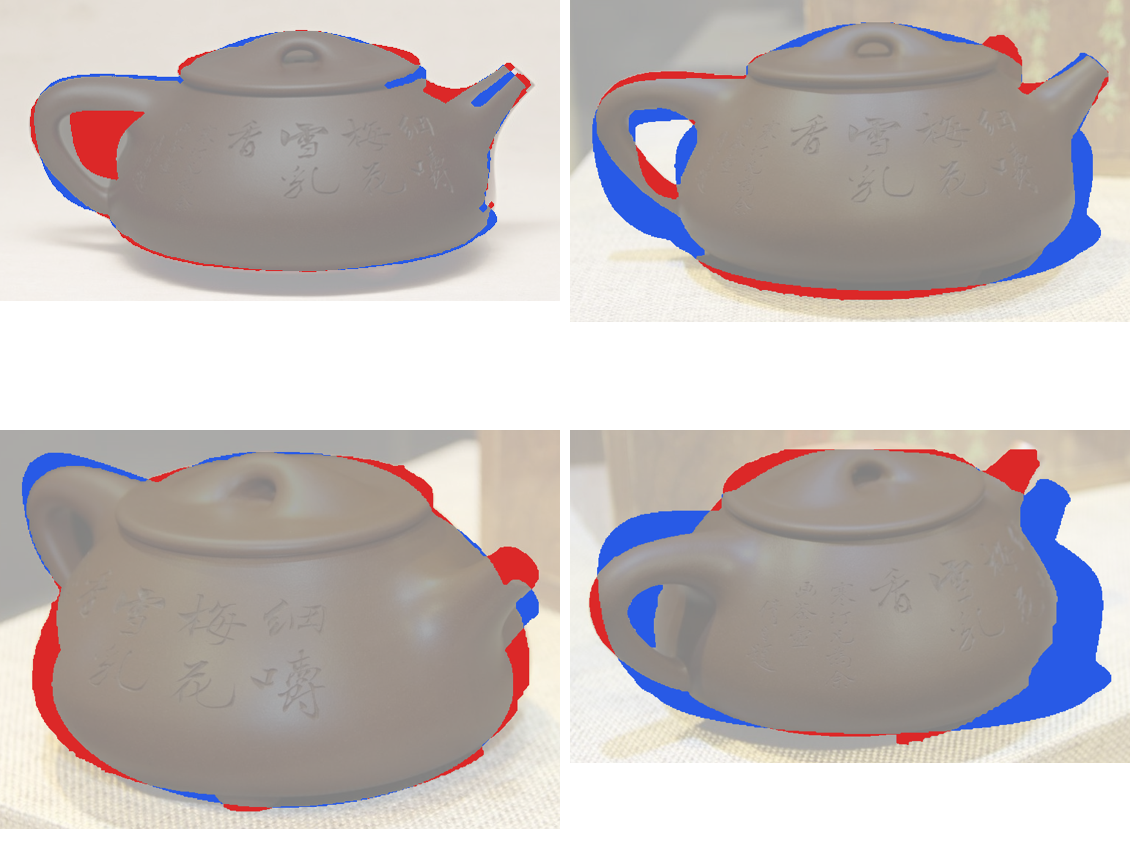
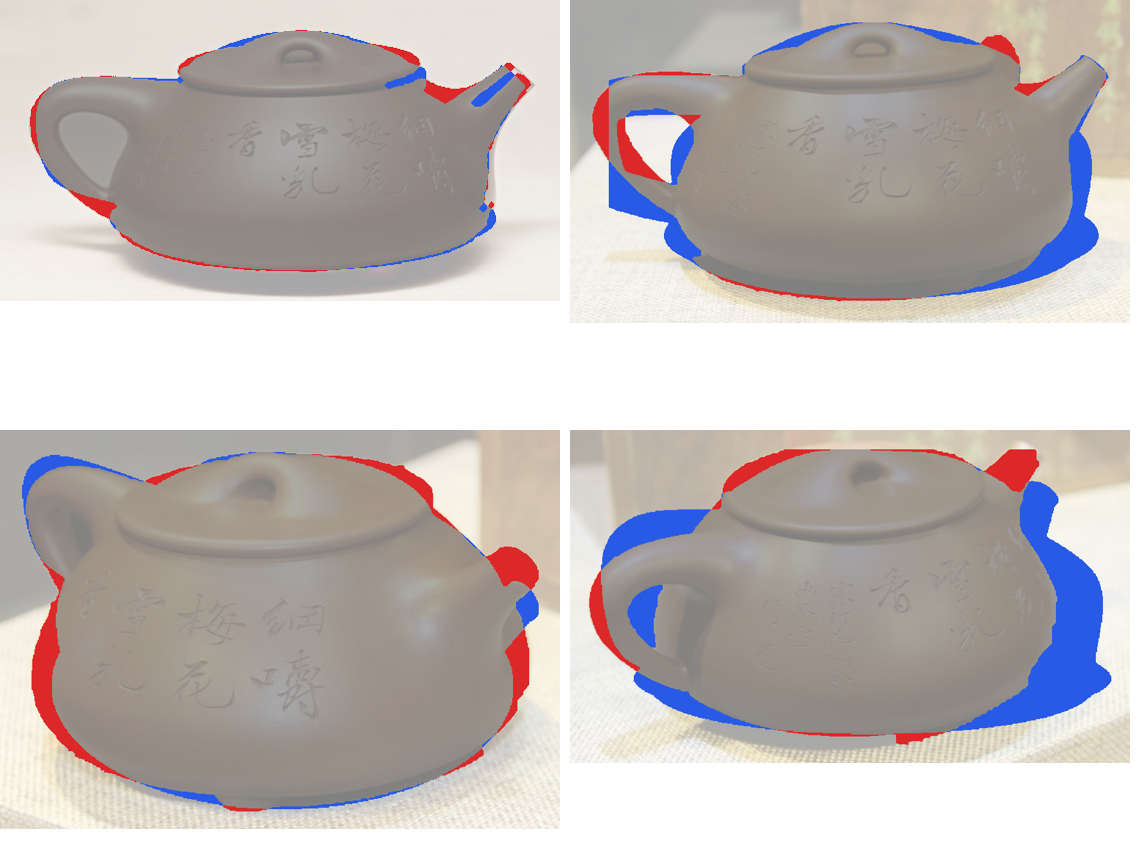
fit: solve camera distance (perspective) per view; 大石瓢 4-view IoU 0.882→0.896
Claude-Session: https://claude.ai/code/session_01Au3NkrP4Zh9Vb2uEzJxxmj

diff --git a/scripts/fit/optimize.py b/scripts/fit/optimize.py
@@ -137,7 +137,7 @@ def _is_int_param(key):
     s_, k_ = key.split('.'); b_ = BOUNDS.get(f"{s_}.{spec0[s_]['type']}.{k_}")
     return bool(b_) and len(b_) > 2 and b_[2] is not None and b_[2] >= 1
 KEYS = [k for k in KEYS if k.startswith('view') or not _is_int_param(k)]
-CAM_BOUNDS = {'elev': [-5, 40], 'az': [-60, 60], 'dist': [3, 20], 'fov': [8, 40], 'ty': [0, 1.5]}
+CAM_BOUNDS = {'elev': [-5, 45], 'az': [-70, 70], 'dist': [3, 30], 'fov': [8, 40], 'ty': [0, 1.5]}
 
 class State:
     def __init__(self, spec, cams): self.spec, self.cams = spec, cams
@@ -198,6 +198,19 @@ if a.cam_grid:
         s_best, n_best, st_best = scored[0]
         best.cams[vi] = dict(st_best.cams[vi])
         print(f'view {vi} camera grid: best {n_best} IoU {s_best:.4f}', flush=True)
+        if 'dist' in tune:  # perspective sweep at the found elev/az
+            cands = []
+            for d_ in (3.5, 5, 6.5, 8, 10, 13, 17, 22, 28):
+                st = best.copy(); st.cams[vi]['dist'] = float(d_); cands.append((f'd{vi}_{d_}', st))
+            jobs = [{'name': n, 'hash': st.hash(vi)} for n, st in cands]
+            jf = OUT / f'dist{vi}.json'; jf.write_text(json.dumps({'out': str(OUT / f'dist{vi}'), 'camera': '', 'jobs': jobs}))
+            r = subprocess.run([a.node, str(HERE / 'render-many.mjs'), str(jf)], cwd=ROOT, capture_output=True, text=True)
+            if r.returncode != 0: print(r.stdout, r.stderr); sys.exit(1)
+            scored = [(iou_view(str(OUT / f'dist{vi}' / f'{n}.png'), v, st.spec, st.cams[vi]), n, st) for n, st in cands]
+            scored.sort(key=lambda t: -t[0])
+            s_best, n_best, st_best = scored[0]
+            best.cams[vi]['dist'] = st_best.cams[vi]['dist']
+            print(f'view {vi} dist sweep: best {n_best} IoU {s_best:.4f}', flush=True)
         json.dump(best.cams, open(OUT / 'best-cameras.json', 'w'), indent=1)
 
 # ---- coordinate descent ------------------------------------------------------
@@ -209,7 +222,7 @@ for rnd in range(1, a.rounds + 1):
     cands = []
     for key in KEYS:
         v = best.get(key); lo, hi = best.bound(key)[:2]
-        d = max(abs(v) * step, 0.5 if key.startswith('view') else 0.005)
+        d = max(abs(v) * step, 0.5 if (key.startswith('view') and not key.endswith('.dist')) else 0.005)
         for sgn, tag in ((+1, 'p'), (-1, 'm')):
             nv = min(hi, max(lo, v + sgn * d))
             if abs(nv - v) < 1e-6: continue

diff --git a/README.md b/README.md
@@ -91,8 +91,9 @@ scripts/
 Fitting results so far: 相明石瓢 (three photos: level / near-level / steep
 3-4) mean IoU 0.909, level view 0.952 — cameras solved to 5.5°/6.5°, 1.5°/0°,
 35°/23°. 大石瓢 (four photos: auction side + three exhibition angles, GrabCut masks
-in fit/refs/masks) mean IoU 0.882 — 0.917 / 0.867 / 0.932 / 0.813; cameras
-10°/−8°, 10°/−24°, 30°/32°, 7.5°/−42°. Light backdrops with engraving need
+in fit/refs/masks) mean IoU 0.896 — 0.951 / 0.885 / 0.932 / 0.816; cameras
+(elev/az/dist) 10.6°/−8°/10, 10°/−20°/5, 30°/32°/8, 7°/−45°/6.6. Solving
+camera distance (perspective) lifted the auction view 0.917 → 0.951. Light backdrops with engraving need
 generous `hole_px`; cluttered backdrops → precomputed masks (`"mask"` field).
 
 URL grammar: `#id=<archive-id>&mat=<material>&<slot>.<param>=<value>...&cam=side&ui=hide`
@@ -120,7 +121,7 @@ node scripts/screenshot.mjs   # headless render check → shots/
 - **印章**: user seal on the base — connects to calligraphy
 - **Component vocabulary**: fill the "planned" column above; rim and strainer
   slots; 花器 mesh import
-- **Photo→spec v2**: tune per-view `dist` (perspective) too; shading-based
+- **Photo→spec v2**: shading-based
   terms for features silhouettes can't see; use the base photo (feet, seal)
   as a fourth constraint
 - **Fillets (润接)**: spout and handle roots on real pots blend into the body
